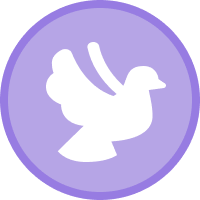
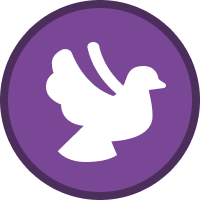
content page

diff --git a/index.css b/index.css
@@ -42,9 +42,21 @@ table {
 	border-collapse: collapse;
 	border-spacing: 0;
 }
+button {
+    border: none;
+    background-color: transparent;
+}
 
 
 /* FONT */
+@font-face {
+    font-family: 'title';
+    src: url('Big\ Heroes\ Free\ Trial.ttf') format('woff');
+    font-weight: normal;
+    font-style: normal;
+}
+
+
 @font-face {
     font-family: 'HSSummer';
     src: url('https://cdn.jsdelivr.net/gh/projectnoonnu/noonfonts_one@1.0/HSSummer.woff') format('woff');
@@ -62,7 +74,7 @@ table {
 
 /* HEADER */
 header {
-    background: linear-gradient(#977CE2, #B6A5E7, transparent);
+    background: linear-gradient(#7A4696, #A673C1, transparent);
     padding-bottom: 4rem;
     position: absolute;
     height: 7rem;
@@ -82,7 +94,15 @@ header {
 .title {
     font-family: 'HSSummer';
     color: white;
+    font-size: 3rem;
+    cursor: pointer;
+}
+
+.title span {
+    font-family: 'title';
+    color: white;
     font-size: 2.5rem;
+    cursor: pointer;
 }
 
 .subtitle {
@@ -174,7 +194,7 @@ header {
 
 
 
-@media ( max-width: 955px ) {
+@media ( max-width: 1066px ) {
     header {
         padding-bottom: 4rem;
         position: absolute;
@@ -212,6 +232,7 @@ header {
         margin-top: 1rem;
         margin: 1rem auto;
     }
+
 }
   
 
@@ -228,13 +249,13 @@ header {
     display: flex;
     flex-direction: column;
     border-radius: 1.5rem 1.5rem 0 0;
+    overflow-y: scroll;
 }
 
 .info-title-box {
     display: flex;
     flex-direction: row;
     justify-content: space-between;
-    width: 90%;
     padding: 2rem;
     margin-top: 0.5rem;
 }
@@ -252,7 +273,7 @@ h2 {
 .close-btn:hover {
     background-color: transparent;
     border: none;
-    color: #977CE2;
+    color: #7A4696;
     transition: 0.5s;
 }
 
@@ -262,9 +283,14 @@ h2 {
     padding-left: 1rem;
 }
 
-@media ( max-width: 862px ) {
+@media ( max-width: 1066px ) {
     .info-title-box {
         padding: 1rem;
+    }
+
+    .info {
+        height: 76vh;
+        margin-top: 4rem;
     }
 }
 
@@ -279,7 +305,7 @@ h2 {
     top: 43vh;
     left: 45vw;
     z-index: 50;
-    background: #B6A5E7;
+    background: #7A4696;
     border-radius: 10rem;
     width: 8rem;
     height: 8rem;
@@ -290,7 +316,7 @@ h2 {
     -webkit-transition-property: transform;        
     -webkit-transition-duration: 0.7s;      
     -webkit-transition-timing-function: ease;
-    border: 2px solid #977CE2;
+    border: 2px solid #4C2E5C;
     vertical-align: center;
     color: white;
     display: flex;
@@ -316,7 +342,7 @@ h2 {
     position: absolute;
     z-index: 50;
     background: white;
-    border: 2px solid #977CE2;
+    border: 2px solid #7A4696;
     border-radius: 10rem;
     text-align: center;
     display: flex;
@@ -361,4 +387,127 @@ h2 {
     height: 7rem;
     animation: tag3 2s infinite;
     animation-timing-function: ease-in-out;
+}
+
+
+/*
+content
+*/
+.map-vector {
+    position: absolute;
+}
+
+.content-title {
+    font-family: 'HSSummer';
+    position: relative;
+}
+
+.content-title span {
+    position: absolute;
+    display: block;
+    left: 2rem;
+    top: 3.5rem;
+    font-size: 2.2rem;
+    width: 20rem;
+    text-align: left;
+    color: #4C2E5C;
+}
+
+.tag-container {
+    display: flex;
+    flex-wrap: wrap;
+    text-align: left;
+    padding-left: 5rem;
+}
+
+.content-container {
+    margin-top: 1rem;
+}
+
+.content {
+    margin-top: 0.5rem;
+    display: flex;
+    flex-wrap: wrap;
+}
+
+.tag-item {
+    padding: 0.2rem 1rem;
+    border-radius: 1rem;
+    border: 1px solid #7A4696 ;
+    border-bottom: 2px solid #7A4696;
+    margin: 0.5rem;
+}
+
+.item-container {
+    width: 45%;
+    padding: 1rem;
+    margin: 0.5rem;
+    display: block;
+}
+
+.content-question {
+    padding-left: 2.5rem;
+    margin-bottom: 0.5rem;
+}
+
+.content-item {
+    height: 5rem;
+    border: 1px solid #7A4696;
+    border-radius: 3rem;
+    display: block;
+    padding: 1.5rem 2rem;
+    text-align: center;
+
+}
+
+
+@media ( max-width: 988px ) {
+    .item-container {
+        width: 95%;
+    }
+}
+
+b {
+    font-weight: bold;
+    background-color: #E5CBF3;
+}
+
+.bold {
+    font-family: 'HSSummer';
+    font-size: 1.5rem;
+}
+
+.desc {
+    text-align: right;
+    line-height: 2;
+    margin-right: 2rem;
+    color: #4C2E5C;
+}
+
+.side-title {
+    display: flex;
+    flex-wrap: nowrap;
+}
+
+@media ( max-width: 780px ) {
+    .map-vector {
+        top: 6rem;
+    }
+
+    .content-title span { 
+        top: 9rem;
+    }
+
+    .content-container {
+        margin-top: 7.5rem;
+    }
+    
+    .content { 
+        margin-top: 1.5rem;
+    }
+
+    .tag-container { 
+        padding-left: 0.5rem;
+        text-align: center;
+    }
 }

diff --git a/index.html b/index.html
@@ -15,7 +15,7 @@
     <header>
         <img class="bubble-left"  src="bubble.png" height="30rem">
         <div class="title-box">        
-            <h1 class="title">
+            <button class="title" id="title">
                 <
                 <span>M</span>
                 <span>a</span>
@@ -33,7 +33,7 @@
                 <span>n</span>
                 <span>g</span>
                 >
-            </h1>
+            </button>
             <span class="subtitle">; 뜻밖의 여정</span>
         </div>
         <img class="bubble-right" src="bubble.png" height="30rem">
@@ -63,12 +63,61 @@
 
     <div class="info" id="info">
         <div class="info-title-box">       
-             <h2>< 위치 이름 ></h2>
-            <button class="close-btn material-icons" onClick="closeInfo();">close</button>
+            <h2 class="content-title">
+                <img src="map.png" width="100rem" class="map-vector"/>
+                <span>조치원 전통 시장</span>
+            </h2>
+
+            <div class="side-title">
+                <p class="desc">
+                    <span class="bold">세옹 </span>은(는) 조치원을 오랜 시간 떠나게 됩니다. <br>
+                    마지막으로 방문하고 싶은 조치원 내 장소는 어디인가요?
+                </p>
+                
+                <button class="close-btn material-icons" onClick="closeInfo();">close</button>
+            </div>
         </div>
 
-        <div class="content">
-            안녕하세요
+        <div class="content-container">
+            <div class="tag-container">
+                <span class="tag-item">시장 맛집</span>
+                <span class="tag-item">떠나기 전</span>
+                <span class="tag-item">놀러온 친구들</span>
+                <span class="tag-item">부모님</span>
+            </div>
+            
+            <div class="content">
+                <span class="item-container">  
+                    <h5 class="content-question">그 장소를 <b>어떻게</b> 알게 되었나요? </h5>
+                    <div class="content-item">
+                        친구 맛집을 데려다준다고 해서 따라갔다가
+                    </div>
+                </span>
+
+                <span class="item-container">  
+                    <h5 class="content-question"><b>누구와 언제</b> 방문하고 싶으신가요?</h5>
+                    <div class="content-item">
+                        부모님이나 타지역에서 놀러온 친구들과 
+                        점심이나 떠나기 전에 요깃거리를 사러
+                    </div>
+                </span>
+
+                <span class="item-container">  
+                    <h5 class="content-question"><b>왜</b> 그 곳에 가고 싶으신가요?</h5>
+                    <div class="content-item">
+                        시장에 맛있는 음식이 많아요 ~
+                    </div>
+                </span>
+
+                <span class="item-container">  
+                    <h5 class="content-question">그 곳에서 <b>무엇을</b> 하고 싶으신가요?</h5>
+                    <div class="content-item">
+                        지금까지 먹고 싶었던 거 하나씩 다 맛보기
+                    </div>
+                </span>
+
+                <img>
+            </div>
         </div>
     </div>
 

diff --git a/map.js b/map.js
@@ -214,3 +214,7 @@ function setDraggable(draggable) {
     // 마우스 드래그로 지도 이동 가능여부를 설정합니다
     map.setDraggable(draggable);    
 }
+
+document.getElementById("title").onclick = function () {
+    map.setCenter(new kakao.maps.LatLng(36.601659208879646, 127.29777601594054));
+}
